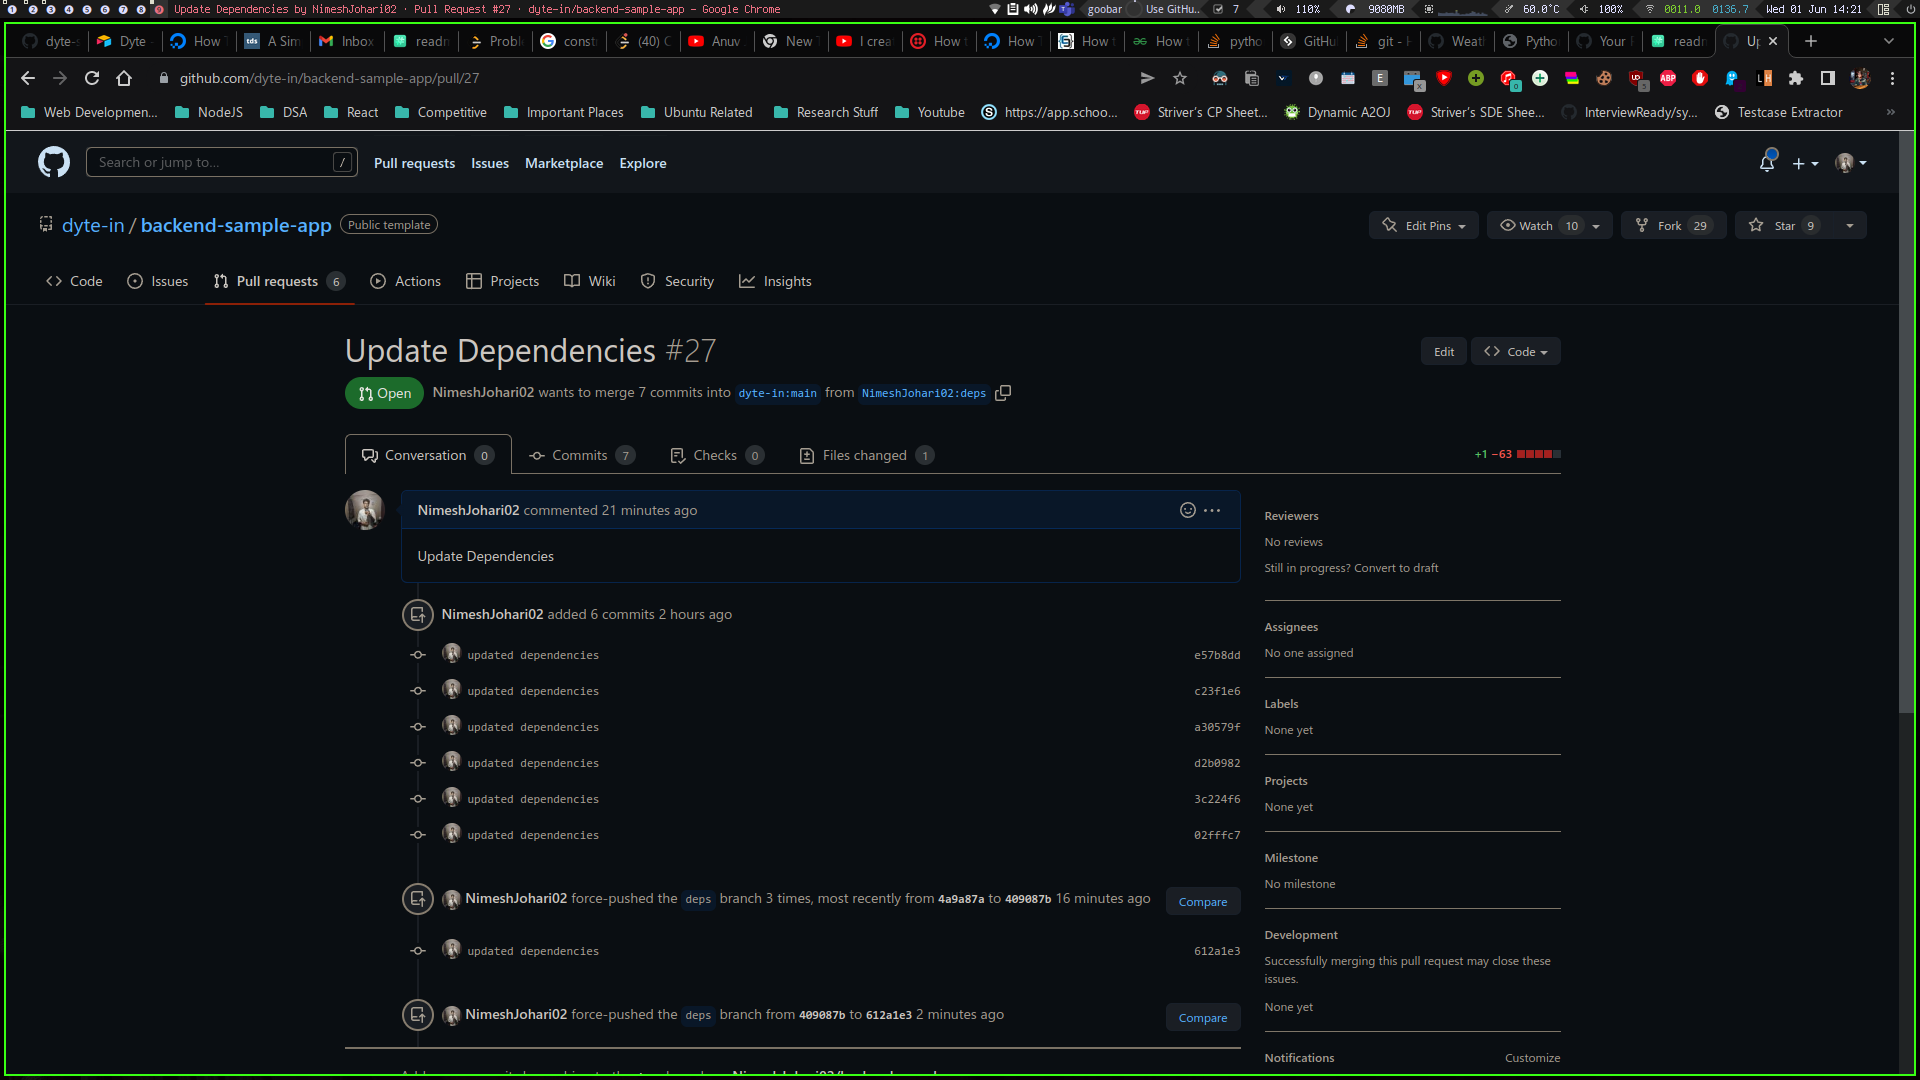
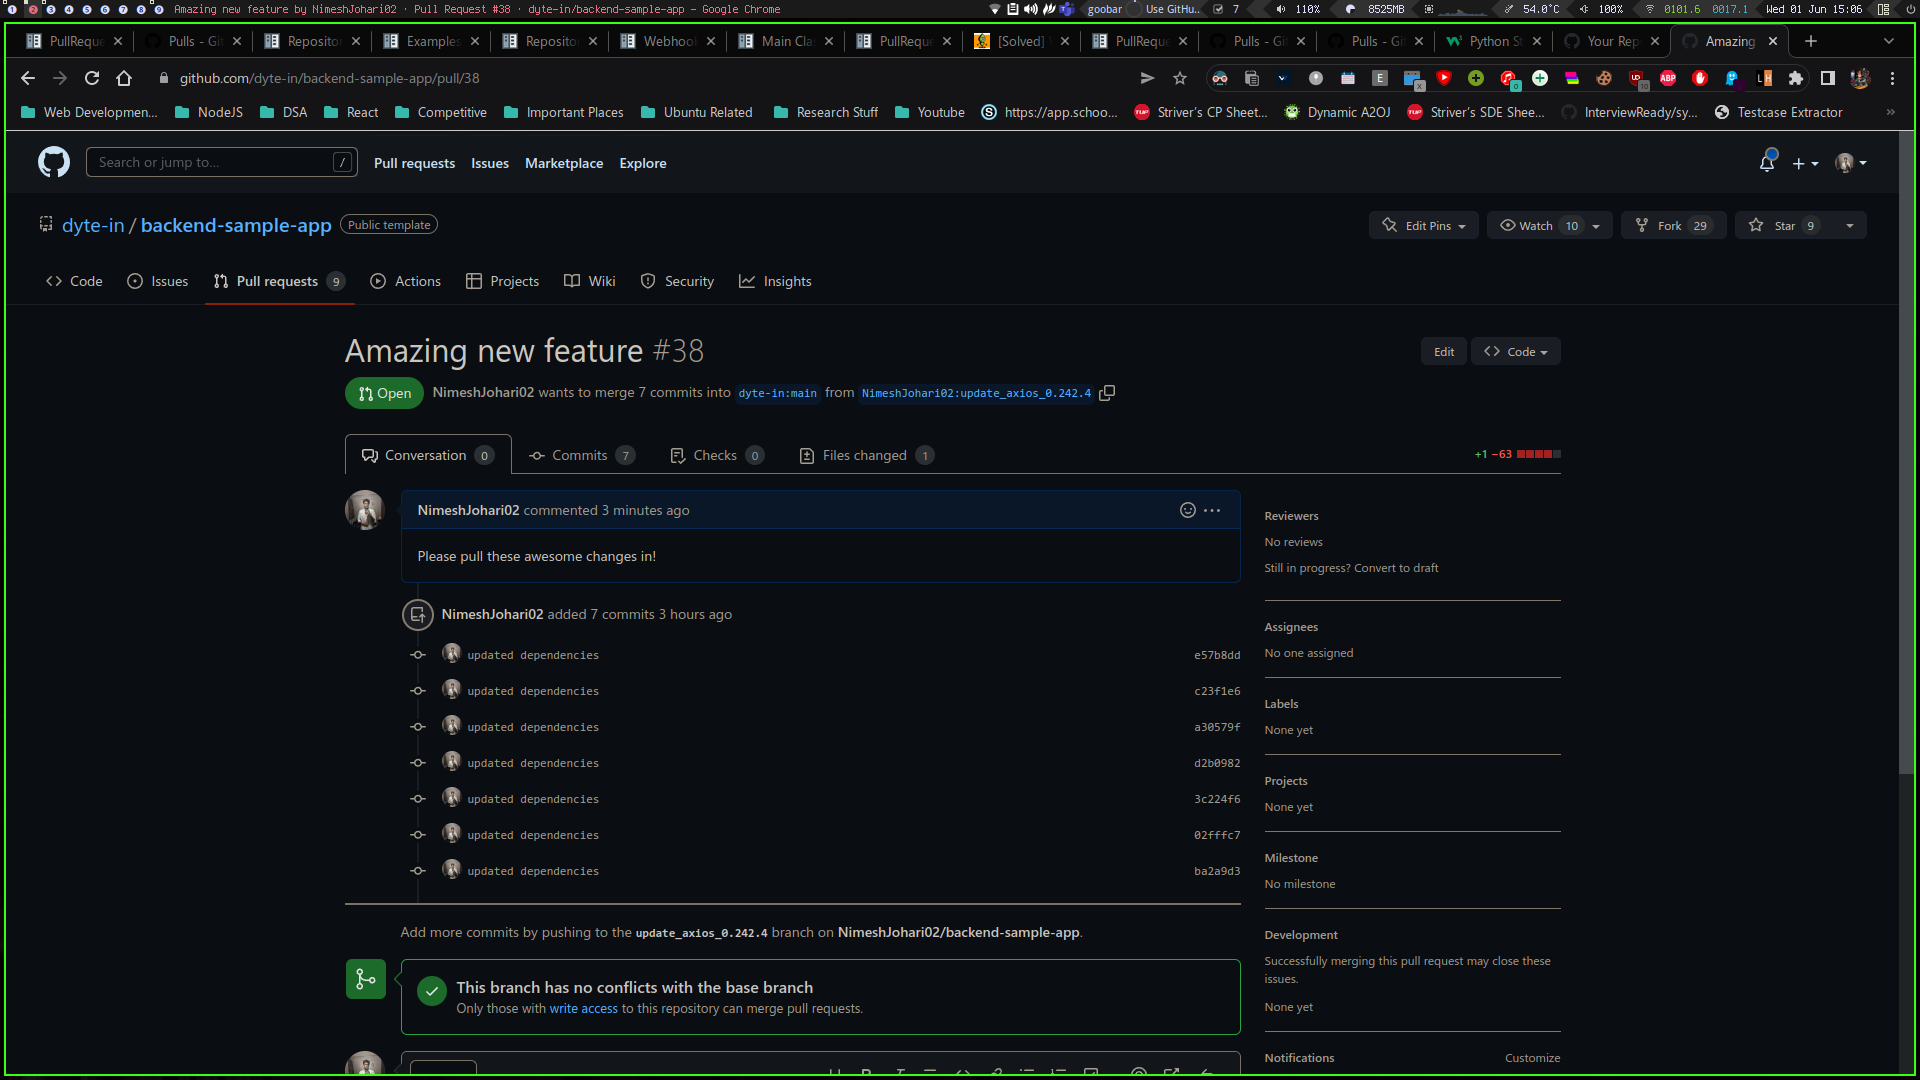
Feat :Pull Complete

diff --git a/app.py b/app.py
@@ -18,6 +18,7 @@ from json import dumps
 load_dotenv();
 g = Github(os.getenv('GITHUB_AUTH_TOKEN'));
 username = os.getenv('GITHUB_USERNAME');
+auth_token = os.getenv('GITHUB_AUTH_TOKEN');
 
 
 def runcmd(cmd, verbose = False, *args, **kwargs):
@@ -190,16 +191,19 @@ if args.update:
         with open('jsonFiles/'+name+'/package.json', 'w') as f:
             json.dump(data, f)
         #commit the changes to another branch
-        cmd = "cd jsonFiles/"+name+" && git checkout -b deps &&  git add package.json && git commit -m 'updated dependencies' && git push --force origin deps"
+        #generate name for branch
+        branchName = "update_"+library+"_"+inputDict[library]
+        cmd = "cd jsonFiles/"+name+" && git checkout -b" +branchName+"&&  git add package.json && git commit -m 'updated dependencies' && git push --force origin "+branchName
         runcmd(cmd , verbose=TRUE);
         #open pull request using pygithub
         organisation_name = getCompanyName(link);
-        repo = g.get_repo(organisation_name+'/'+name)
+        #repo = g.get_repo(username+'/'+name)
         #create a pull request using pygithub
         try:
             #create pr from deps to master
-            pr = repo.create_pull(title="Update Dependencies", body="Update Dependencies", head=username+':deps', base='main')
-        # catch 
+            cmd="""curl -u """+ username+""":"""+auth_token+""" -X POST -H "Accept: application/vnd.github.v3+json"  https://api.github.com/repos/"""+organisation_name+"/"+name+"""/pulls -d '{"title":"Amazing new feature","body":"Please pull these awesome changes in!","head":"""+'"'+username+":"+branchName+'"'+""","base":"main"}'""";
+            print(cmd);
+            runcmd(cmd , verbose=TRUE);
         except Exception as e:
             print(e);
             print("Pull Request Already Exists")
